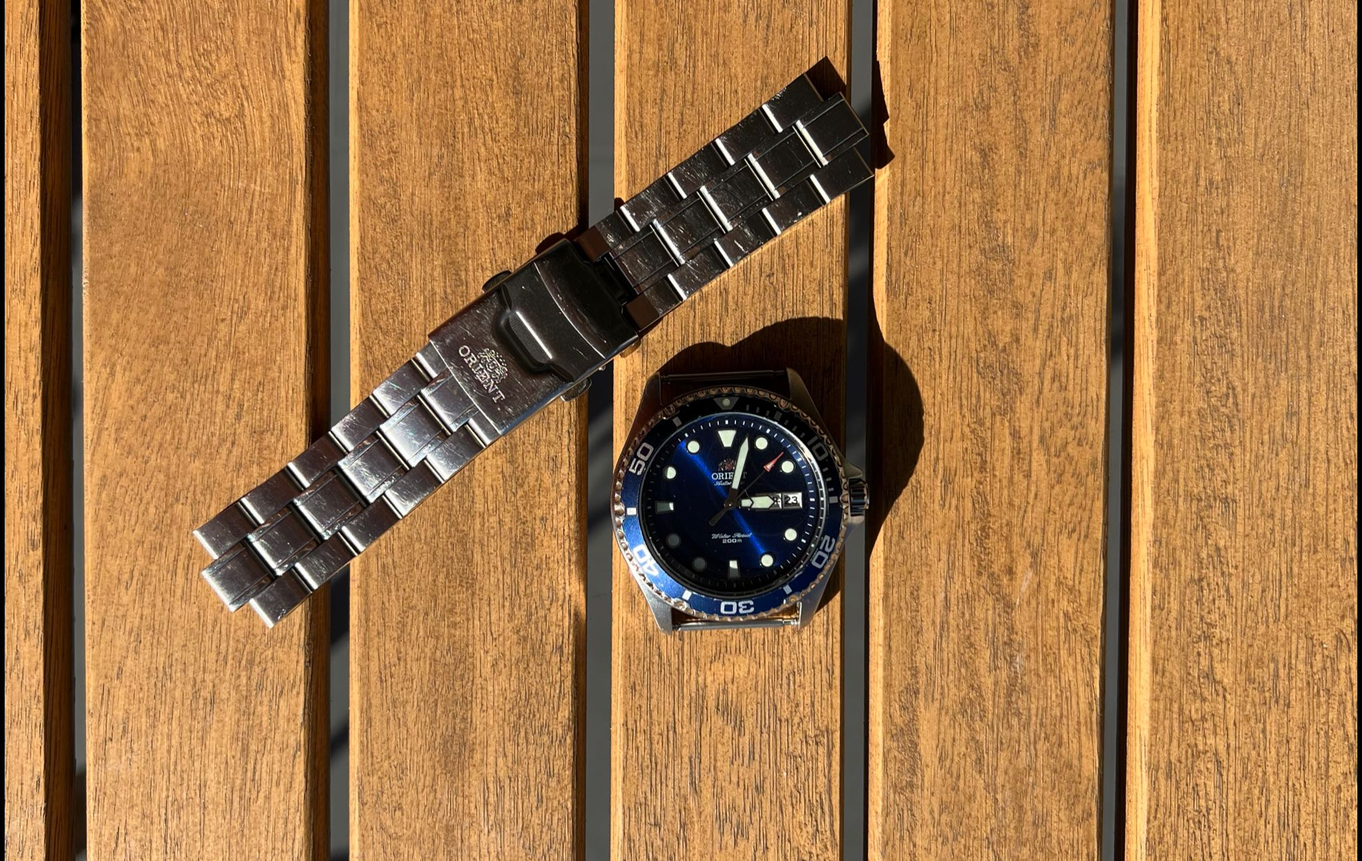
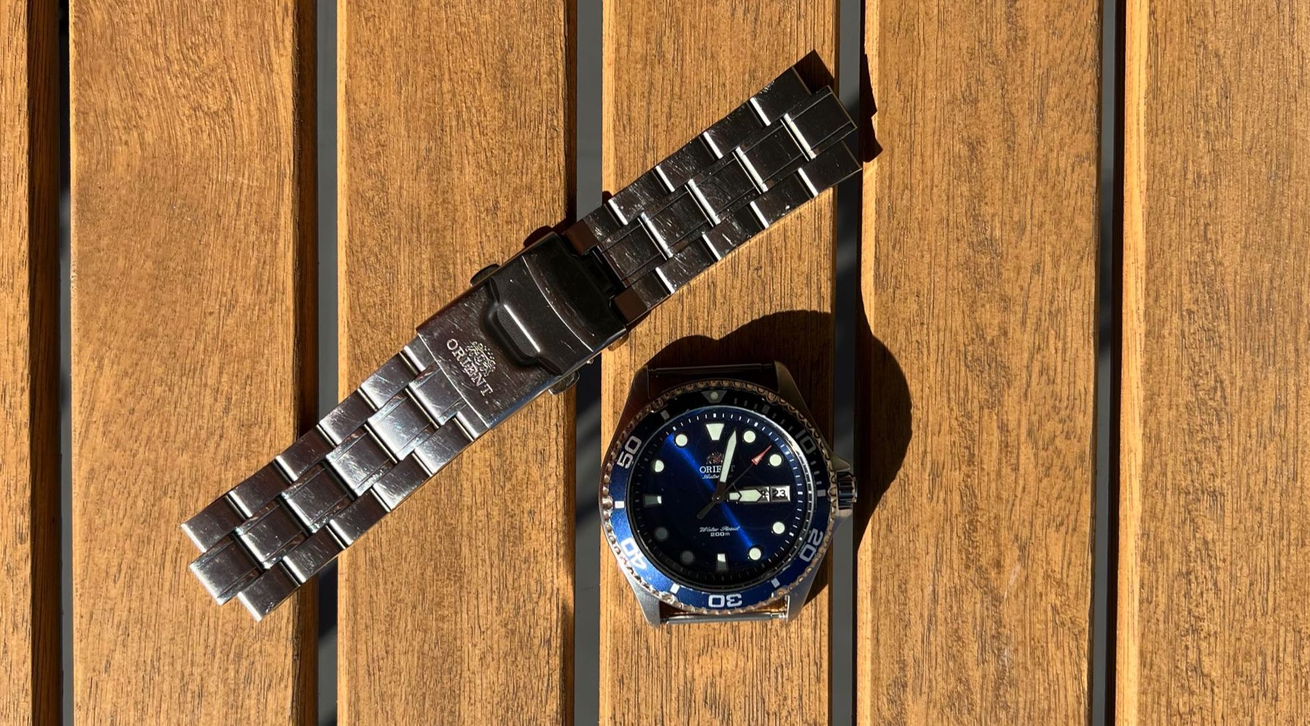
fix: cut pics

diff --git a/src/utils/posts.tsx b/src/utils/posts.tsx
@@ -6,11 +6,11 @@ export const blogPosts = [
     { id: "1", 
       titleHomepage: 'Orient Blue Ray II',
       title: <><p>Orient Blue Ray II <br></br> El Mejor Diver por Menos de 200 €</p></>, 
-      summary: <><p>Un diver polivalente, de mecánica japonesa y con una robustez inmejorable.</p></>, 
+      summary: <><p>Un auténtico diver Japones a prueba de balas, con un precio para cualquier bolsillo</p></>, 
       category: 'Story',
       categoryTitle: <><p>EXPLICANDO RELOJES</p></>,
       editor: 'Lluis M.',
-      date: '5 Feb, 2024',
+      date: '13 Feb, 2024',
       mainPicture: '/orientBlue/edited/portada.jpg',
       content: <><div className="prose prose-lg mx-auto text-gray-500">
           <p className="text-center">
@@ -44,6 +44,7 @@ export const blogPosts = [
           <figure className="flex justify-center my-8">
               <Image
                 alt="Orient Blue Ray II"
+                className="aspect-video overflow-hidden rounded-lg object-cover"
                 height={340}
                 width={600}
                 src="/orientBlue/edited/sunlight.jpg"
@@ -80,7 +81,8 @@ export const blogPosts = [
             <br></br>
             <br></br>
 
-            La resistencia al agua es de 200 metros, lo que lo convierte en un auténtico reloj de buceo. Además, cuenta con una corona firmada de rosca, como no podría ser de otra forma en un diver, y un reverso de la caja con los icónicos delfines que suelen llevar los divers de Orient.             El bisel es de aluminio, resistente a los golpes y fácil de cambiar si fuera necesario. El cristal es mineral, un punto intermedio entre zafiro y plexiglás, que ha demostrado ser duradero a lo largo de los años.
+            La resistencia al agua es de 200 metros, lo que lo convierte en un auténtico reloj de buceo. Además, cuenta con una corona firmada de rosca, como no podría ser de otra forma en un diver, y un reverso de la caja con los icónicos delfines que suelen llevar los divers de Orient.
+            El bisel es de aluminio, resistente a los golpes y fácil de cambiar si fuera necesario. El cristal es mineral, un punto intermedio entre zafiro y plexiglás, que ha demostrado ser duradero a lo largo de los años.
 
           </p>
           <br></br>
@@ -97,19 +99,16 @@ export const blogPosts = [
         <br></br>
 
           <p className="text-justify">
-            Este reloj se puede comprar con una de dos opciones en cuanto a correas: una pulsera metálica de acero inoxidable o una correa de caucho decorada con los clásicos delfines de Orient. En la mayoría de los casos, yo siempre recomendaría que cuando alguien se compra un reloj nuevo donde se ofrece la posibilidad de escoger entre una correa de cualquier material vs una metálica, siempre les diría que compren el brazalete metálico. 
+            Este reloj te ofrece dos opciones de correas: puedes elegir entre una pulsera metálica de acero inoxidable o una correa de caucho adornada con los emblemáticos delfines de Orient. Personalmente, siempre te aconsejaría optar por el brazalete metálico cuando estés ante la decisión de escoger entre diferentes materiales para tu nuevo reloj.    
             <br></br>
             <br></br>
 
-            ¿Por qué? Pues muy simple, desde un punto de vista financiero es siempre mejor comprarlo. Si lo tienen, siempre pueden encontrar opciones baratas en correas de otros materiales que les van a encajar, pero si hacen al revés, aunque en un inicio se ahorren un dinero, si tienen que ir a la casa relojera a comprar la correa metálica sola, no les va a salir a cuenta. Además, en la mayoría de los relojes, el valor de reventa se verá afectado si no tienen el brazalete original.
+            ¿La razón? Es bastante simple desde el punto de vista financiero: el brazalete metálico siempre es la mejor elección. Si optas por él, siempre podrás encontrar correas de otros materiales a buen precio que combinarán perfectamente. Pero, si decides empezar con otra correa y luego quieres cambiar a la metálica, te costará más y, en muchos casos, afectará al valor de reventa del reloj si no es el brazalete original.
+            Sin embargo, después de decir todo esto, quiero señalar que en este caso particular, el brazalete metálico no merece la pena. Lo compré y al verlo me di cuenta de que la calidad no estaba a la altura del resto del reloj; parece de un tipo de acero diferente al de la caja y se raya con mucha facilidad, como podrás apreciar en la foto.
             <br></br>
             <br></br>
 
-            Ahora, después de todo este rollo, les diré que en este caso concreto no vale la pena comprar el brazalete. Yo me lo compré y nada más verlo, me di cuenta de que no vale la pena. Se siente de muy mala calidad en comparación con el resto del reloj, como si fuera de otro acero diferente al de la caja. Se ralla con muchísima facilidad, como pueden ver en la foto.  
-            <br></br>
-            <br></br>
-
-            El cierre no es nada seguro, una vez incluso me saltó sin darme cuenta y perdí el reloj durante un par de días. Lo que quiero decir es que con un reloj de este precio no se puede pedir mucho más y la correa de caucho que viene de serie es de suficiente buena calidad y mucho más cómoda. Además, con la opción de caucho en Amazon, se ahorrarán unos 30 euros, que pueden usar para comprar una buena nato o una correa de caucho de mejor calidad, como acabé haciendo yo igualmente.          
+            Además, el cierre no es nada seguro. Una vez incluso me saltó sin darme cuenta y perdí el reloj durante un par de días. Lo que quiero decir es que con un reloj de este precio no se puede pedir mucho más y la correa de caucho que viene de serie es de suficiente buena calidad y mucho más cómoda. Además, con la opción de caucho en Amazon, se ahorrarán unos 30 euros, que pueden usar para comprar una buena nato o una correa de caucho de mejor calidad, como acabé haciendo yo igualmente.          
           
           </p>
 

diff --git a/src/app/aboutUs/page.tsx b/src/app/aboutUs/page.tsx
@@ -38,7 +38,7 @@ export default function Home() {
       {/* Main Content */}
       <main className="max-w-7xl p-4 md:p-8 mt-8 bg-white m-auto font-roboto"> {/* Removed rounded-lg, added font */}
         <div className="prose prose-lg mx-auto text-gray-500 text-8l">
-          <p className="text-2lg text-gray-500 justify-center">
+          <p className="text-2lg text-gray-500 text-center">
             En construcción
           </p>
       </div>

diff --git a/src/app/contact/page.tsx b/src/app/contact/page.tsx
@@ -38,7 +38,7 @@ export default function Home() {
       {/* Main Content */}
       <main className="max-w-7xl p-4 md:p-8 mt-8 bg-white m-auto font-roboto"> {/* Removed rounded-lg, added font */}
         <div className="prose prose-lg mx-auto text-gray-500 text-8l">
-          <p className="text-2lg text-gray-500 justify-center">
+          <p className="text-2lg text-gray-500 text-center">
             En construcción
           </p>
       </div>
